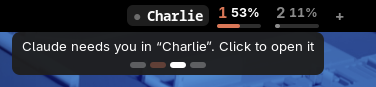
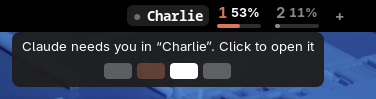
Chat bars: rounded rectangles you can hover and click; orange frame on arrival
Hover a bar for its chat's name; click to go to its desktop, window and tab (the terminal's own
focus-tab-N shortcut when the window has several tabs). An orange frame flashes around the
window it led to, also for the needs-you dot and notifications. The box stays open while the
pointer is on it.

diff --git a/extension/claude-account-switcher@aimanelahssini/extension.js b/extension/claude-account-switcher@aimanelahssini/extension.js
@@ -277,7 +277,12 @@ export default class ClaudeAccountExtension extends Extension {
         this._addBtn.connect('notify::hover', () => this._showTooltip(this._addBtn));
         this._box.add_child(this._addBtn);
         // The hover box: a line of text, and for the mascot a row of your Claude chats.
-        this._tip = new St.BoxLayout({style_class: 'claude-acct-tooltip', vertical: true, visible: false});
+        this._tip = new St.BoxLayout({style_class: 'claude-acct-tooltip', vertical: true, visible: false,
+            reactive: true, track_hover: true});
+        this._tip.connect('notify::hover', () => {
+            if (!this._tip.hover && this._tipFor === this._tag)
+                this._showTooltip(this._tag);
+        });
         this._tooltip = new St.Label({style_class: 'claude-acct-tooltip-text'});
         this._tabsRow = new St.BoxLayout({style_class: 'claude-acct-tabs', x_align: Clutter.ActorAlign.CENTER,
             visible: false});
@@ -348,6 +353,11 @@ export default class ClaudeAccountExtension extends Extension {
         this._indicator?.destroy();
         this._indicator = null;
         this._tabsCancel?.cancel();
+        if (this._tipTimer)
+            GLib.source_remove(this._tipTimer);
+        this._tipTimer = null;
+        this._flashActor?.destroy();
+        this._flashActor = null;
         this._tip?.destroy();
         this._tip = null;
         this._tooltip = null;
@@ -457,9 +467,78 @@ export default class ClaudeAccountExtension extends Extension {
 
     _openChat(entry) {
         const win = this._chatWindow(entry);
-        if (win)
+        if (win) {
             Main.activateWindow(win);
-        this._tip.hide();
+            this._flash(win);
+        }
+        this._hideTip();
+    }
+
+    // A bar's chat: its window to the front, and its tab when the window has several.
+    _openTab(chat) {
+        const win = chat.window && global.get_window_actors().map(a => a.meta_window)
+            .find(m => (m.get_title() ?? '').trim() === chat.window);
+        if (!win) {
+            this._openChat(chat);
+            return;
+        }
+        Main.activateWindow(win);
+        // The tab isn't the one showing: press the terminal's own "go to tab N" shortcut.
+        if (chat.tabCount > 1 && chat.tab !== chat.window) {
+            GLib.timeout_add(GLib.PRIORITY_DEFAULT, 200, () => {
+                if (global.display.focus_window === win)
+                    this._pressTabShortcut(chat.tabIndex + 1);
+                return GLib.SOURCE_REMOVE;
+            });
+        }
+        this._flash(win);
+        this._hideTip();
+    }
+
+    // Ptyxis's focus-tab-N shortcut, as set in its preferences (e.g. Ctrl+& on AZERTY).
+    _pressTabShortcut(n) {
+        const source = Gio.SettingsSchemaSource.get_default();
+        if (n > 10 || !source.lookup('org.gnome.Ptyxis.Shortcuts', true))
+            return;
+        const accel = new Gio.Settings({schema_id: 'org.gnome.Ptyxis.Shortcuts'}).get_string(`focus-tab-${n}`);
+        const mods = {ctrl: Clutter.KEY_Control_L, control: Clutter.KEY_Control_L, primary: Clutter.KEY_Control_L,
+            alt: Clutter.KEY_Alt_L, shift: Clutter.KEY_Shift_L, super: Clutter.KEY_Super_L};
+        const keys = [...accel.matchAll(/<(\w+)>/g)].map(m => mods[m[1].toLowerCase()]).filter(Boolean);
+        const key = Clutter[`KEY_${accel.replace(/<\w+>/g, '')}`];
+        if (!key)
+            return;
+        this._pressed = [...keys, key];   // tests read it
+        this._keyboard ??= Clutter.get_default_backend().get_default_seat()
+            .create_virtual_device(Clutter.InputDeviceType.KEYBOARD_DEVICE);
+        const time = () => GLib.get_monotonic_time();
+        for (const k of this._pressed)
+            this._keyboard.notify_keyval(time(), k, Clutter.KeyState.PRESSED);
+        for (const k of [...this._pressed].reverse())
+            this._keyboard.notify_keyval(time(), k, Clutter.KeyState.RELEASED);
+    }
+
+    // An orange frame around the window it led to, that shows and fades away.
+    _flash(win) {
+        this._flashActor?.destroy();
+        const frame = new St.Widget({style_class: 'claude-acct-flash', opacity: 0, reactive: false});
+        this._flashActor = frame;
+        Main.layoutManager.uiGroup.add_child(frame);
+        // After a desktop switch the window is where it will be shown.
+        GLib.timeout_add(GLib.PRIORITY_DEFAULT, 280, () => {
+            if (this._flashActor !== frame)
+                return GLib.SOURCE_REMOVE;
+            const r = win.get_frame_rect();
+            frame.set_position(r.x - 3, r.y - 3);
+            frame.set_size(r.width + 6, r.height + 6);
+            frame.ease({opacity: 255, duration: 150, mode: Clutter.AnimationMode.EASE_OUT_QUAD,
+                onComplete: () => frame.ease({opacity: 0, delay: 700, duration: 650, mode: Clutter.AnimationMode.EASE_IN_QUAD,
+                    onComplete: () => {
+                        if (this._flashActor === frame)
+                            this._flashActor = null;
+                        frame.destroy();
+                    }})});
+            return GLib.SOURCE_REMOVE;
+        });
     }
 
     // The white dot: blink, blink, pause, in step with the lights.
@@ -830,7 +909,7 @@ export default class ClaudeAccountExtension extends Extension {
                     : 'Needs a one-time setup: install-lights.sh'));
             }
         }
-        this._tip.hide();
+        this._hideTip();
         menu.toggle();
     }
 
@@ -873,7 +952,7 @@ export default class ClaudeAccountExtension extends Extension {
         }
         if (!b._menu.isOpen)
             this._fillHistory(b);
-        this._tip.hide();
+        this._hideTip();
         b._menu.toggle();
     }
 
@@ -1092,25 +1171,48 @@ export default class ClaudeAccountExtension extends Extension {
         GLib.file_set_contents(GLib.build_filenamev([SLOTS, '.panel-unit']), `${unit}\n`);
     }
 
+    _tagText() {
+        if (this._needs.length > 1)
+            return `Claude needs you in ${this._needs.map(e => `“${this._chatName(e)}”`).join(', ')}. Click to open the first`;
+        if (this._needs.length)
+            return `Claude needs you in “${this._chatName(this._needs[0])}”. Click to open it`;
+        return this._busy ? 'Claude is working: no sleep until it\'s done, lid closed or not' : 'Claude is idle';
+    }
+
+    _hideTip() {
+        if (this._tipTimer)
+            GLib.source_remove(this._tipTimer);
+        this._tipTimer = null;
+        this._tip?.hide();
+        this._showTabs(false);
+    }
+
     _showTooltip(b) {
+        if (this._tipTimer)
+            GLib.source_remove(this._tipTimer);
+        this._tipTimer = null;
         if (!b.hover) {
-            this._tip.hide();
-            this._showTabs(false);
+            // The mascot's box stays while the pointer is on it, so its bars can be clicked.
+            if (b === this._tag) {
+                this._tipTimer = GLib.timeout_add(GLib.PRIORITY_DEFAULT, 300, () => {
+                    this._tipTimer = null;
+                    if (!this._tip.hover && !this._tag.hover)
+                        this._hideTip();
+                    return GLib.SOURCE_REMOVE;
+                });
+                return;
+            }
+            this._hideTip();
             return;
         }
-        if (b === this._tag && this._needs.length > 1)
-            this._tooltip.text = `Claude needs you in ${this._needs.map(e => `“${this._chatName(e)}”`).join(', ')}. ` +
-                'Click to open the first';
-        else if (b === this._tag && this._needs.length)
-            this._tooltip.text = `Claude needs you in “${this._chatName(this._needs[0])}”. Click to open it`;
-        else if (b === this._tag)
-            this._tooltip.text = this._busy ? 'Claude is working: no sleep until it\'s done, lid closed or not'
-                : 'Claude is idle';
+        if (b === this._tag)
+            this._tooltip.text = this._tagText();
         else if (b === this._addBtn)
             this._tooltip.text = 'Add a Claude account';
         else
             this._tooltip.text = this._signedIn.has(b._slot)
                 ? this._resetText(b._slot) : 'Not signed in. Click to sign in.';
+        this._tipFor = b;
         this._showTabs(b === this._tag);
         this._tip.show();
         this._placeTip(b);
@@ -1173,7 +1275,8 @@ export default class ClaudeAccountExtension extends Extension {
                 continue;
             const transcript = GLib.build_filenamev([GLib.get_home_dir(), '.claude', 'projects',
                 (info.cwd ?? '').replace(/[^A-Za-z0-9]/g, '-'), `${info.sessionId}.jsonl`]);
-            chats.push({id: info.sessionId, title: this._chatName({transcript, cwd: info.cwd}),
+            chats.push({id: info.sessionId, pid: info.pid, cwd: info.cwd, transcript,
+                title: this._chatName({transcript, cwd: info.cwd}),
                 state: needs.has(info.sessionId) ? 'needs' : busy.has(info.sessionId) ? 'working' : 'idle'});
         }
         // Windows desktop by desktop, then left to right (then top to bottom).
@@ -1196,25 +1299,38 @@ export default class ClaudeAccountExtension extends Extension {
         // A tab is a chat when it names the chat's session (claude --resume ID) or shows its title.
         const placed = [];
         for (const w of ordered) {
-            for (const tab of w.tabs ?? []) {
+            (w.tabs ?? []).forEach((tab, i) => {
                 const title = bareTitle(tab).replace(/ — .*$/, '');
                 const chat = chats.find(c => !placed.includes(c) && tab.includes(c.id)) ??
                     chats.find(c => !placed.includes(c) && c.title === title);
-                if (chat)
+                if (chat) {
+                    // Where to find it: its window, and its tab there (when the window has several).
+                    Object.assign(chat, {window: w.window, tab, tabIndex: i, tabCount: w.tabs.length});
                     placed.push(chat);
-            }
+                }
+            });
         }
         // Chats in other terminals come last.
         return [...placed, ...chats.filter(c => !placed.includes(c))];
     }
 
     _drawTabs(chats) {
-        const key = chats.map(c => c.state).join();
+        const key = chats.map(c => `${c.id}:${c.state}`).join();
         if (key !== this._tabsKey) {
             this._tabsKey = key;
             this._tabsRow.destroy_all_children();
-            for (const c of chats)
-                this._tabsRow.add_child(new St.Widget({style_class: `claude-acct-tab ${c.state}`, y_align: Clutter.ActorAlign.CENTER}));
+            for (const c of chats) {
+                const bar = new St.Button({style_class: `claude-acct-tab ${c.state}`, y_align: Clutter.ActorAlign.CENTER,
+                    can_focus: true, accessible_name: c.title});
+                bar._chat = c;
+                // Hovering a bar names its chat in the text above.
+                bar.connect('notify::hover', () => {
+                    const state = {idle: 'idle', working: 'working', needs: 'needs you'}[c.state];
+                    this._tooltip.text = bar.hover ? `${c.title} · ${state}` : this._tagText();
+                });
+                bar.connect('clicked', () => this._openTab(c));
+                this._tabsRow.add_child(bar);
+            }
         }
         this._tabsRow.visible = chats.length > 0;
         // Orange ones breathe while the box is open.

diff --git a/tests/shell/claude-test@tests/extension.js b/tests/shell/claude-test@tests/extension.js
@@ -5,6 +5,7 @@ import Clutter from 'gi://Clutter';
 import Gio from 'gi://Gio';
 import GLib from 'gi://GLib';
 import Shell from 'gi://Shell';
+import St from 'gi://St';
 import * as Main from 'resource:///org/gnome/shell/ui/main.js';
 import {Extension} from 'resource:///org/gnome/shell/extensions/extension.js';
 
@@ -323,8 +324,44 @@ async function tabsTest() {
     const [ix] = ext._indicator.get_transformed_position();
     await new Shell.Screenshot().screenshot_area(Math.min(ix, tx) - 12, 0, Math.max(ix + ext._indicator.width, tx + tw) - Math.min(ix, tx) + 24, ty + th + 12, stream);
     stream.close(null);
+    check('tabs: rounded rectangles you can click', rects.every(r => r instanceof St.Button && r.reactive));
+    // Moving from the mascot onto the box keeps it open.
     ext._tag.hover = false;
-    await sleep(300);
+    ext._tip.hover = true;
+    await sleep(600);
+    check('tabs: the box stays while the pointer is on it', ext._tip.visible);
+    rects[2].hover = true;
+    await sleep(100);
+    check('tabs: hovering a bar names its chat', ext._tooltip.text === 'Charlie · needs you', ext._tooltip.text);
+    rects[2].hover = false;
+    // Click the first: its window comes forward and the terminal's own shortcut picks its tab.
+    const focused = () => global.display.focus_window?.get_title() ?? '';
+    Main.activateWindow(windowTitled('✳ Charlie — claude'));
+    await sleep(400);
+    rects[0].emit('clicked', 1);
+    await sleep(450);
+    check('tabs: click goes to that chat\'s window', focused() === '✳ Bravo — claude', focused());
+    const accel = new Gio.Settings({schema_id: 'org.gnome.Ptyxis.Shortcuts'}).get_string('focus-tab-1');
+    check('tabs: and to its tab, with the terminal\'s shortcut', !!ext._pressed?.length, `${accel} -> ${ext._pressed}`);
+    check('tabs: an orange frame shows around it', !!ext._flashActor && ext._flashActor.opacity > 0 &&
+        Math.abs(ext._flashActor.x - (windowTitled('✳ Bravo — claude').get_frame_rect().x - 3)) <= 1);
+    check('tabs: the box closes', !ext._tip.visible);
+    await shot('flash', ext);
+    const fs = Gio.File.new_for_path(`${OUT}/flash-window.png`).replace(null, false, Gio.FileCreateFlags.NONE, null);
+    const fr = windowTitled('✳ Bravo — claude').get_frame_rect();
+    await new Shell.Screenshot().screenshot_area(Math.max(0, fr.x - 20), Math.max(0, fr.y - 20), fr.width + 40, fr.height + 40, fs);
+    fs.close(null);
+    await sleep(1800);
+    check('tabs: then fades away', !ext._flashActor);
+    // A chat on the other desktop: it goes there.
+    ext._tag.hover = true;
+    await sleep(500);
+    ext._tabsRow.get_children()[3].emit('clicked', 1);
+    await sleep(700);
+    check('tabs: a chat on another desktop: that desktop', focused() === '✳ Delta — claude' &&
+        global.workspace_manager.get_active_workspace_index() === 1, focused());
+    ext._tag.hover = false;
+    await sleep(500);
     check('tabs: animation stops with the box', rects.every(r => !r.get_transition('opacity')) && !ext._tabsRow.visible);
     // Not under an account's hover text.
     ext._buttons[0].hover = true;

diff --git a/extension/claude-account-switcher@aimanelahssini/stylesheet.css b/extension/claude-account-switcher@aimanelahssini/stylesheet.css
@@ -73,8 +73,20 @@
 /* A chat waits for you: a white dot that blinks twice and pauses, and the chat's name */
 .claude-acct-needs { spacing: 6px; color: #fff; font-family: monospace; font-size: 0.96em; }
 
-/* Under the mascot's hover text: one rounded rectangle per Claude chat, in tab order */
-.claude-acct-tabs { spacing: 4px; margin-top: 7px; margin-bottom: 1px; }
-.claude-acct-tab { width: 16px; height: 6px; border-radius: 3px; background-color: rgba(255,255,255,0.28); }
+/* Under the mascot's hover text: one rounded rectangle per Claude chat, in tab order;
+   hover one for its name, click it to go there */
+.claude-acct-tabs { spacing: 5px; margin-top: 8px; margin-bottom: 2px; }
+.claude-acct-tab {
+  width: 26px; height: 14px; border-radius: 4px;
+  background-color: rgba(255,255,255,0.28);
+  border: 1px solid transparent;
+}
+.claude-acct-tab:hover { background-color: rgba(255,255,255,0.45); border-color: rgba(255,255,255,0.6); }
 .claude-acct-tab.working { background-color: #d77757; }
+.claude-acct-tab.working:hover { background-color: #eb9f7f; border-color: #f5c0a8; }
 .claude-acct-tab.needs { background-color: #ffffff; }
+.claude-acct-tab.needs:hover { border-color: #d77757; }
+.claude-acct-tab:focus { border-color: #d77757; }
+
+/* The window a click led to: an orange frame that shows, then fades */
+.claude-acct-flash { border: 3px solid #d77757; border-radius: 14px; }

diff --git a/README.md b/README.md
@@ -113,12 +113,15 @@ When a chat stops for a permission prompt, a question or a plan to approve:
   front, on whatever desktop it's on; right-click for the menu. With several chats waiting it
   says **2 chats**, and a click opens the one that has waited longest. Hover for their names.
 - **Your chats at a glance:** hover the mascot (or the spinner, or the dot) and under the text
-  there's a row of small rounded bars, one per Claude chat, in the order of your terminal
+  there's a row of rounded rectangles, one per Claude chat, in the order of your terminal
   tabs: desktop by desktop, windows left to right, then each window's tabs. **Grey** is idle,
-  **orange** (breathing) is working, **white** is waiting for you. `claude-tabs` reads the
-  terminals' tabs through the accessibility bus (as screen readers do), only while you hover.
+  **orange** (breathing) is working, **white** is waiting for you. Hover one for its chat's
+  name; **click** it to go there: its desktop, its window, and its tab (with the terminal's own
+  "go to tab" shortcut), and an orange frame flashes around the window so you see where you
+  landed. `claude-tabs` reads the terminals' tabs through the accessibility bus (as screen
+  readers do), only while you hover.
 
-<p align="center"><img src="docs/tabs.png" width="376" alt="Hover box under the top bar: Claude needs you in Charlie, click to open it, and below it four small rounded bars: grey, orange, white, grey"></p>
+<p align="center"><img src="docs/tabs.png" width="376" alt="Hover box under the top bar: Claude needs you in Charlie, click to open it, and below it four rounded rectangles: grey, orange, white, grey"></p>
 
 - **Notification**, for permission prompts: the project as its title, the request in plain
   words and the exact command, and **Yes**, **Always** (when Claude Code offers "don't ask
